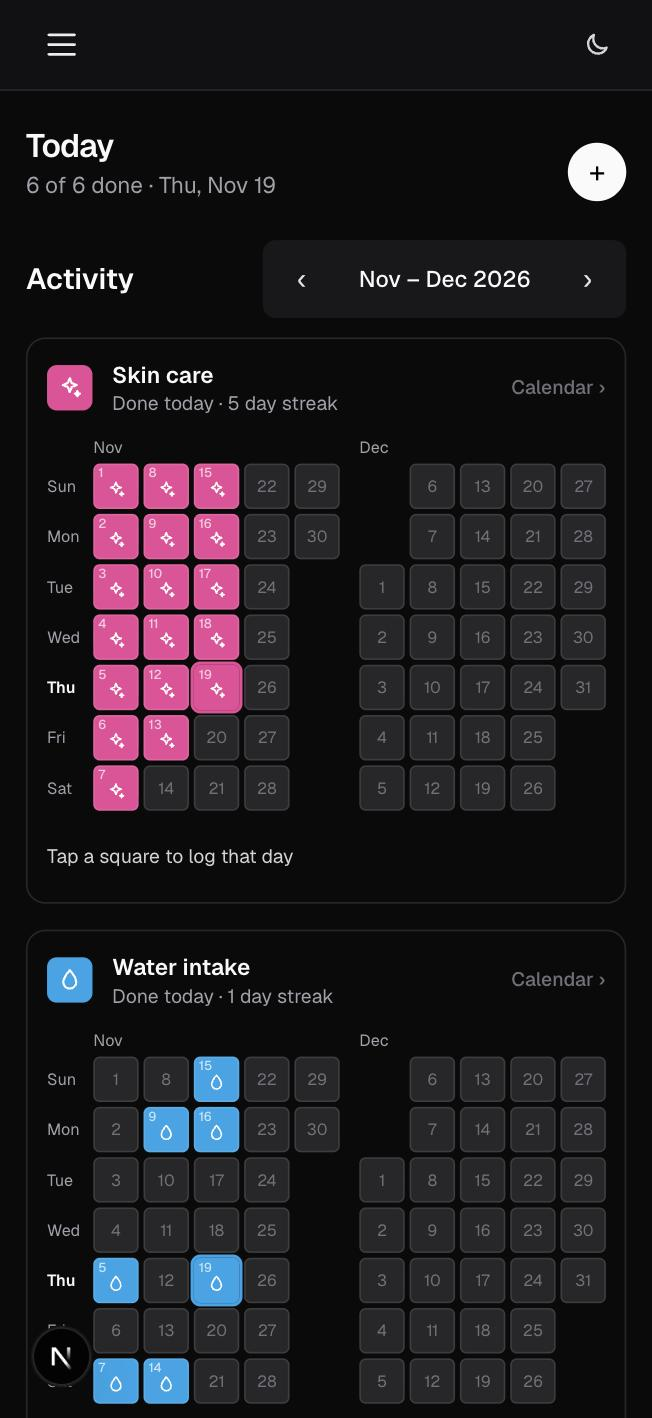
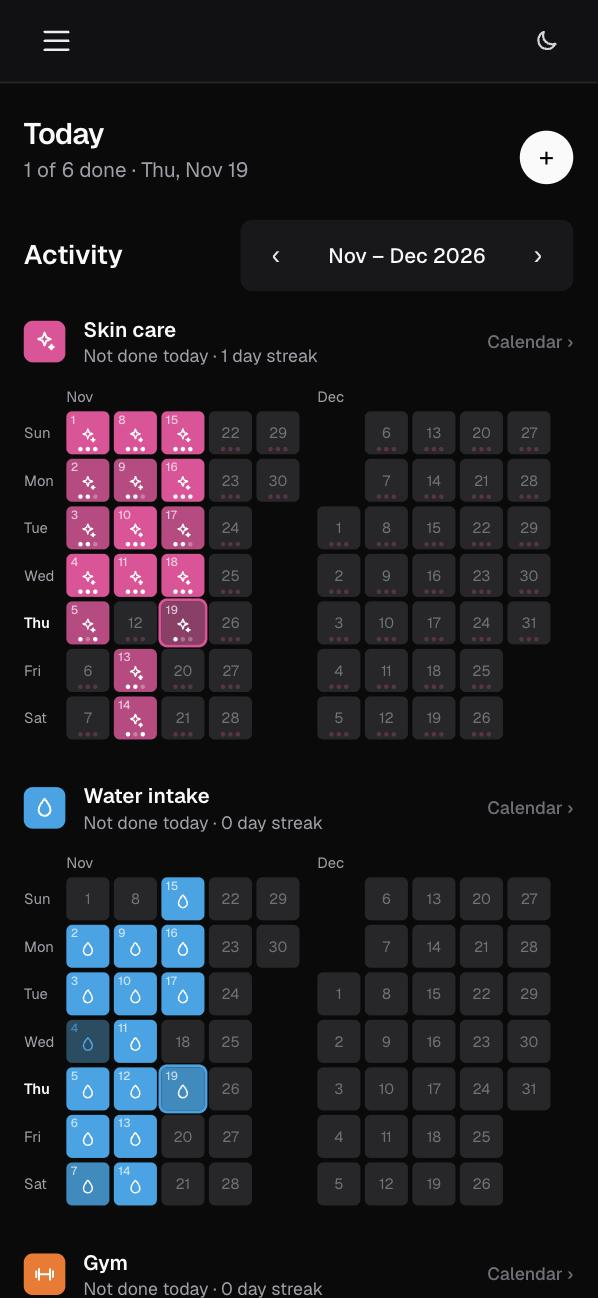
Refresh the README screenshots
New light, dark, time-of-day sheet and desktop screenshots from a production build, with sample data that shows the borderless heatmaps and the morning/evening/night dots.

diff --git a/README.md b/README.md
@@ -16,9 +16,16 @@ My personal habit tracker, built for myself and now free for everyone.
 
 <br />
 
-<img src="docs/screenshot-light.jpg" alt="Habit Tracker in light mode" width="300" />
-&nbsp;&nbsp;&nbsp;
-<img src="docs/screenshot-dark.jpg" alt="Habit Tracker in dark mode" width="300" />
+<img src="docs/screenshot-light.jpg" alt="Habit Tracker heatmaps in light mode" width="250" />
+&nbsp;&nbsp;
+<img src="docs/screenshot-dark.jpg" alt="Habit Tracker heatmaps in dark mode" width="250" />
+&nbsp;&nbsp;
+<img src="docs/screenshot-times-of-day.jpg" alt="Ticking off morning, evening and night for skin care" width="250" />
+
+<br />
+<br />
+
+<img src="docs/screenshot-desktop.jpg" alt="Habit Tracker on desktop, with the sidebar and several months of heatmap" width="780" />
 
 </div>
 
